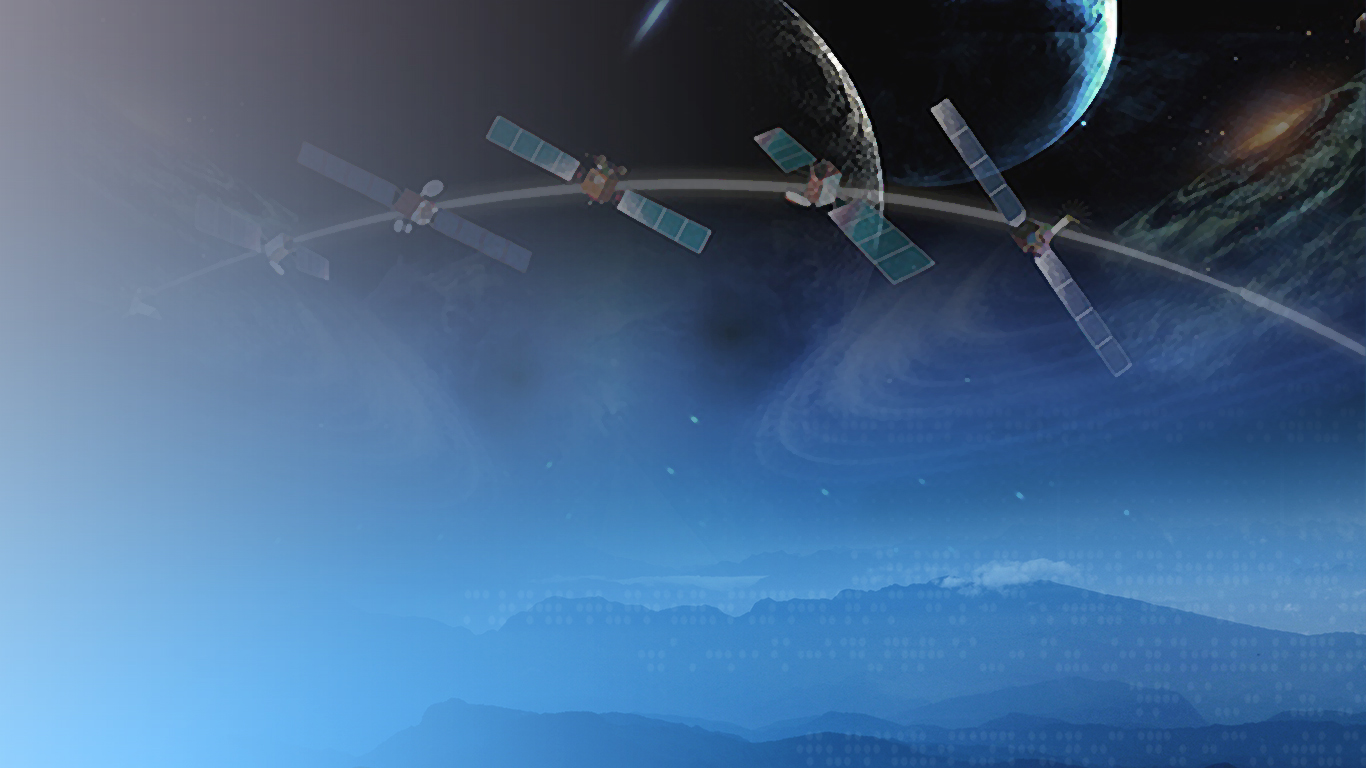
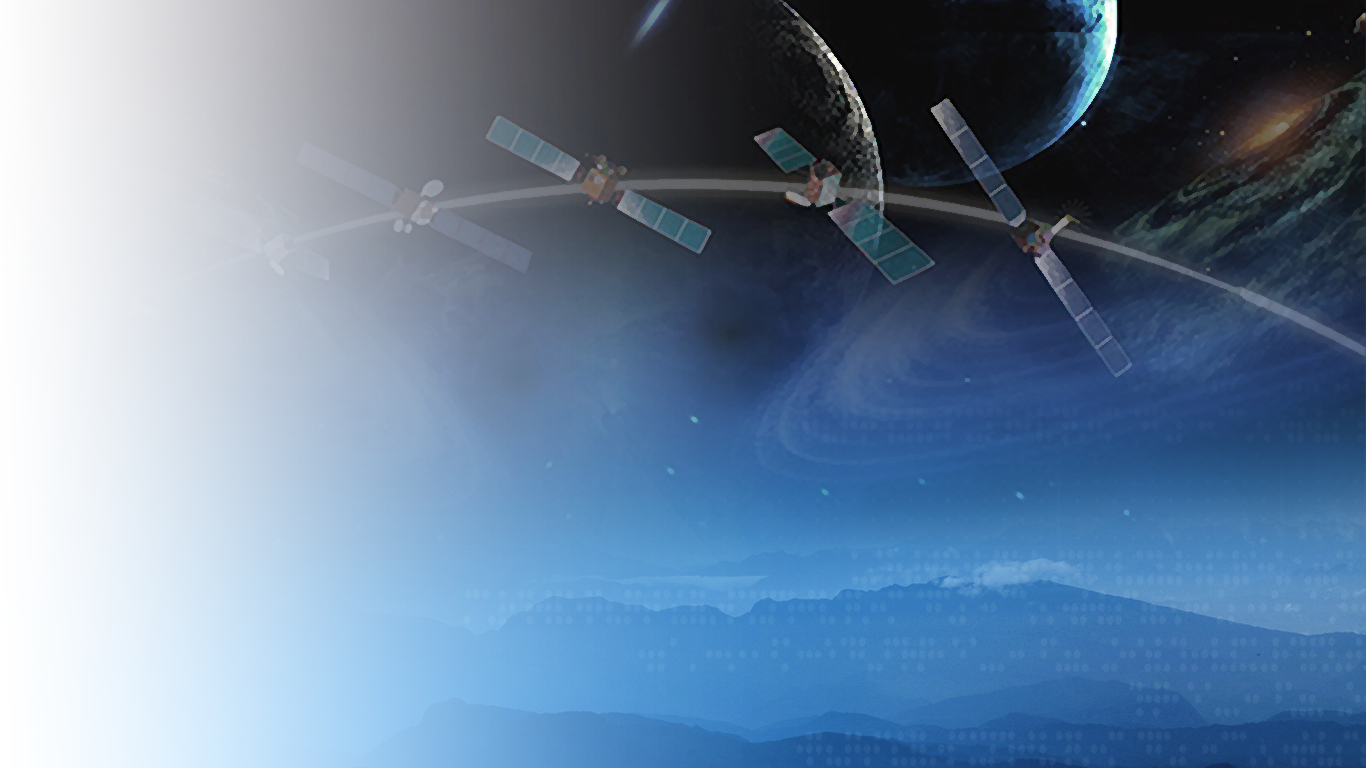
stage 1

diff --git a/src/views/Summary/Summary.tsx b/src/views/Summary/Summary.tsx
@@ -28,10 +28,33 @@ const Summary: React.FC = () => {
   const [personDetail, setPersonDetail] = useState<PersonInfoInter>({});
   const [isModalOpen, setIsModalOpen] = useState(false);
   const [peopleRecords, setPersonRecords] = useState<PersonInfoInter[]>([]);
+  const [numberInCard, setNumberInCard] = useState<any[]>([0, 0, 0]);
 
   useEffect(() => {
     fetchUnitList();
+    fetchPeopleRecordsByUnitId(currentUnitId);
   }, []);
+
+  useEffect(() => {
+    const data: any[] = [
+      { name: "急迫", value: 0 },
+      { name: "重要", value: 0 },
+      { name: "一般", value: 0 },
+    ];
+    peopleRecords.forEach((person) => {
+      const level = getLevel(person);
+      if (level === 2) {
+        data[0].value++;
+      } else if (level === 1) {
+        data[1].value++;
+      } else {
+        data[2].value++;
+      }
+    });
+    console.log("=======", data);
+
+    setNumberInCard(data);
+  }, [peopleRecords]);
 
   const fetchUnitList = async () => {
     const unitList = await axios.get("/unit");
@@ -188,7 +211,7 @@ const Summary: React.FC = () => {
               }}
             >
               <Select
-                // defaultValue="lucy"
+                defaultValue={currentUnitId}
                 placeholder="请选择单位"
                 style={{ width: 120 }}
                 onChange={handleSelectChange}
@@ -215,7 +238,9 @@ const Summary: React.FC = () => {
                 }}
               >
                 红牌人数
-                <div className={style.numberofpeople}>3</div>
+                <div className={style.numberofpeople}>
+                  {numberInCard[0].value}
+                </div>
               </div>
               <div
                 className={style.numbercard}
@@ -224,7 +249,9 @@ const Summary: React.FC = () => {
                 }}
               >
                 黄牌人数
-                <div className={style.numberofpeople}>3</div>
+                <div className={style.numberofpeople}>
+                  {numberInCard[1].value}
+                </div>
               </div>
               <div
                 className={style.numbercard}
@@ -233,7 +260,9 @@ const Summary: React.FC = () => {
                 }}
               >
                 绿牌人数
-                <div className={style.numberofpeople}>3</div>
+                <div className={style.numberofpeople}>
+                  {numberInCard[2].value}
+                </div>
               </div>
             </div>
           </div>
@@ -269,7 +298,7 @@ const Summary: React.FC = () => {
               <img
                 src={`http://localhost:3000/api/upload/avatar${personDetail.avatar}`}
                 alt="Avatar"
-                style={{ width: "15vw", height: "25vh", marginRight: "5vw" }}
+                style={{ width: "15vw", height: "25vh", marginRight: "2vw" }}
               ></img>
             </div>
             <Flex vertical justify="space-around">

diff --git a/src/views/Login/login.module.scss b/src/views/Login/login.module.scss
@@ -4,7 +4,8 @@
   justify-content: center;
   height: 100vh;
   width: 100vw;
-  background-image: url("../../../public/background.jpeg");
+  background-image: url("../../../public/03.png");
+  background-color: #090538;
   background-size: 100vw 100vh;
   .card {
     align-self: center;

diff --git a/src/views/Index/Index.tsx b/src/views/Index/Index.tsx
@@ -11,7 +11,6 @@ const { Header, Sider, Content } = Layout;
 
 const App: React.FC = () => {
   const [collapsed, setCollapsed] = useState(true);
-
   return (
     <Layout>
       <Header className={style.header}>
